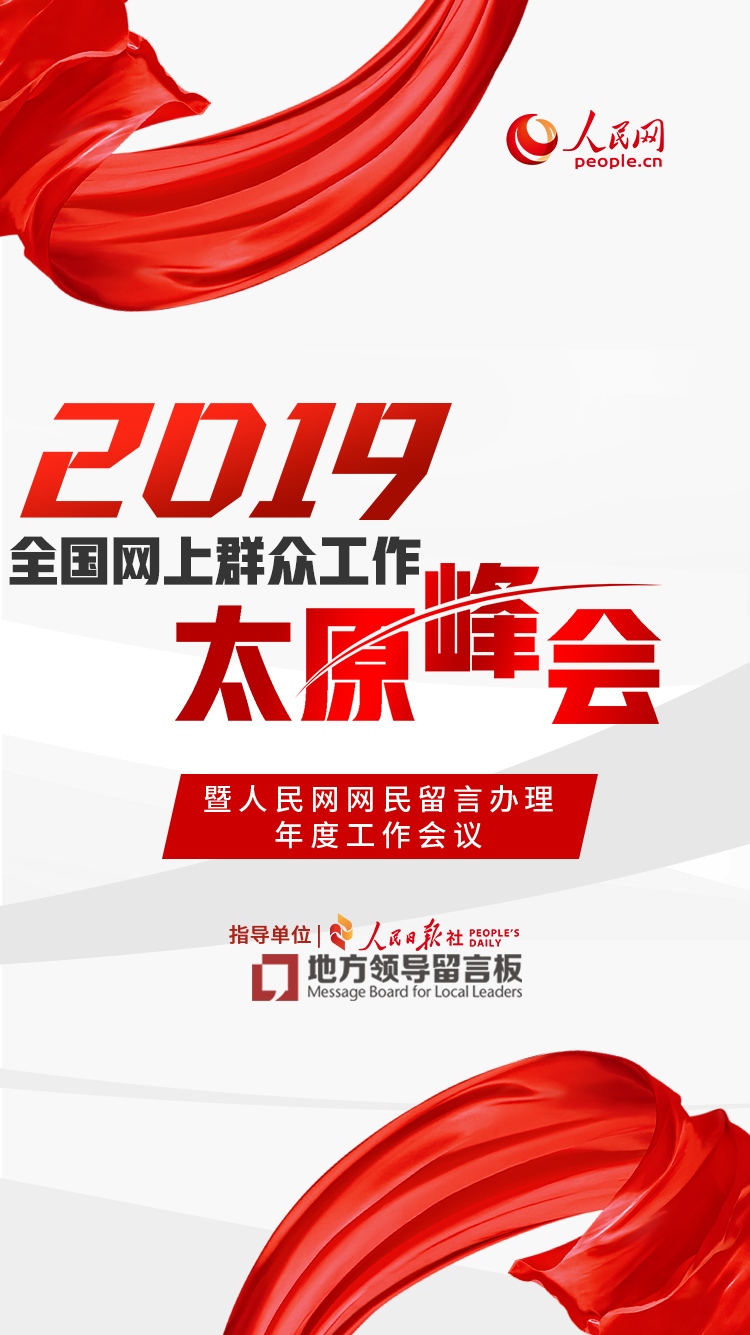
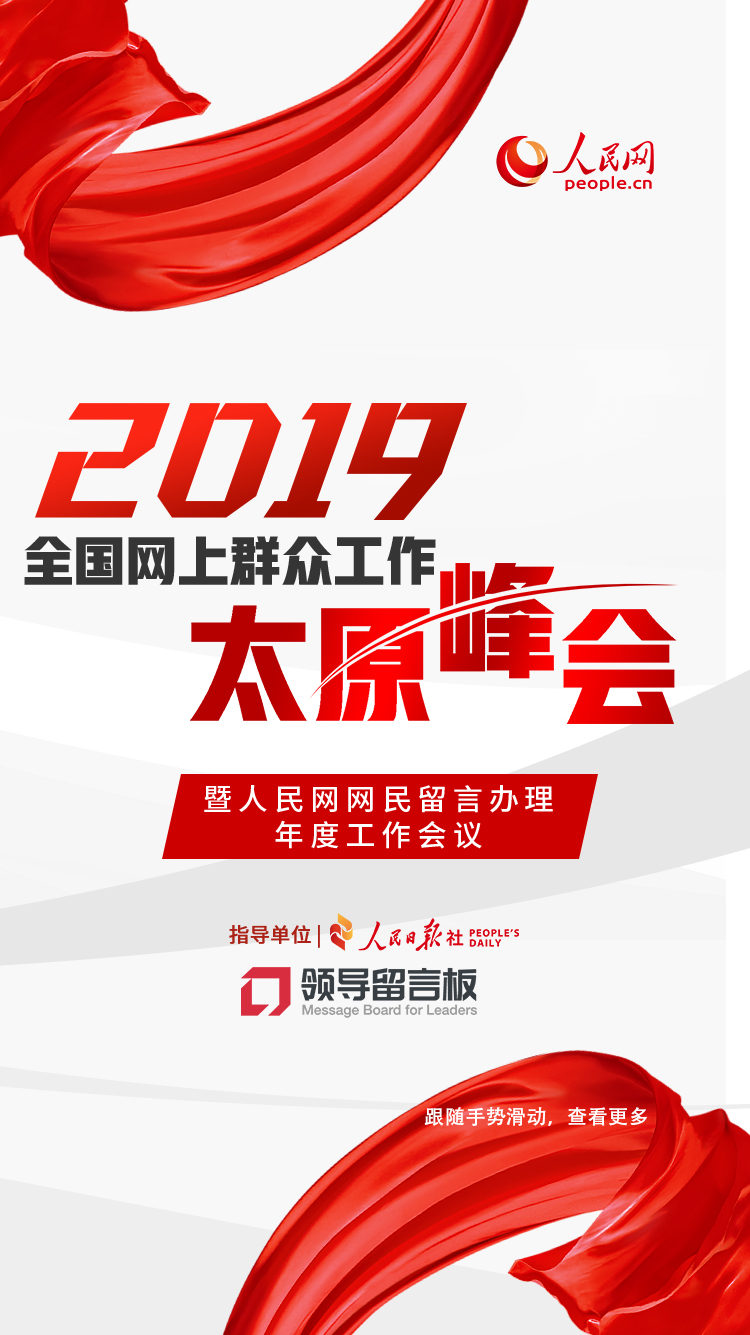
save

diff --git a/index.html b/index.html
@@ -17,13 +17,24 @@
 </head>
 <body>
 	<div class="swiper-wrapper page-box">
+		<!-- 手机页导航 -->
+		<div class="min-top-bar">
+			<div class="min-top-bar-item">首页</div>
+			<div class="min-top-bar-item">要闻</div>
+			<div class="min-top-bar-item">重点推荐</div>
+			<div class="min-top-bar-item">会议日程</div>
+			<div class="min-top-bar-item">会议现场</div>
+			<div class="min-top-bar-item">高峰智库<br>主题演讲</div>
+			<div class="min-top-bar-item">圆桌会议</div>
+			<div class="min-top-bar-item">往届回顾</div>
+			<div class="min-top-bar-item">鸣谢单位</div>
+		</div>
 		<!-- 第一页 -->
 		<div class="one page swiper-slide">
 			<!--header-->
 			<div class="header clearfix">
 				<div class="w980"><span><a href="http://www.people.cn" target="_blank"><img src="http://www.people.com.cn/img/MAIN/2014/06/114539/images/nav/logo_rmw.png" alt="人民网首页" title="人民网首页" /></a></span><em><a href="b" target="_blank">频道</a>|<a href="b" target="_blank">专题</a></em></div>
 			</div>
-			<div class="info-text">跟随手势滑动，查看更多</div>
 			<img class="hand" src="http://www.people.com.cn/img/MAIN/2019/02/119071/images/1-hand.png"/>
 		</div>
 
@@ -46,6 +57,7 @@
 				</div>
 			</div>
 			<div class="transform-box">
+				<a name="a01"></a>
 				<!--newsCon-->
 				<div class="w980 newsCon clearfix">
 					<h1 class="red">2018人民网留言办理工作会议在南京召开</h1>
@@ -94,6 +106,7 @@
 
 		<!-- 第四页 -->
 		<div class="four page swiper-slide">
+			<a name="a02"></a>
 			<!--p2Con-->
 			<div class="p2Con clearfix">
 				<ul class="tit1 clearfix">
@@ -367,7 +380,7 @@
 				<div class="clearfix w980">
 						<div class="fl left">
 							<h2><img src="images/tit7.png" alt="" /></h2>
-							<p><a href="http://leaders.people.com.cn/n1/2016/1230/c202264-28989829.html"target="_blank">关于地方领导留言板</a>&nbsp;&nbsp;|&nbsp;&nbsp;<a href="http://www.people.com.cn/"target="_blank">人民网</a>&nbsp;&nbsp;|&nbsp;&nbsp;<a href="http://leaders.people.com.cn/GB/178291/218130/414212/index.html"target="_blank">客户端下载&nbsp;&nbsp;</a>|&nbsp;&nbsp;<a href="http://kf.people.com.cn/GB/193845/index.html"target="_blank">关于删帖</a><br />
+							<p><a href="http://leaders.people.com.cn/n1/2016/1230/c202264-28989829.html"target="_blank">领导留言板</a>&nbsp;&nbsp;|&nbsp;&nbsp;<a href="http://www.people.com.cn/"target="_blank">人民网</a>&nbsp;&nbsp;|&nbsp;&nbsp;<a href="http://leaders.people.com.cn/GB/178291/218130/414212/index.html"target="_blank">客户端下载&nbsp;&nbsp;</a>|&nbsp;&nbsp;<a href="http://kf.people.com.cn/GB/193845/index.html"target="_blank">关于删帖</a><br />
 								热线：4008-100-300（不受理投诉、留言）<br />
 								邮箱：leader@people.cn</p>
 						</div>
@@ -399,6 +412,8 @@
 	<div class="nav_r white">
 		<ul>
 			<li id="active"><i></i><span><a title="返回顶部" class="go_top" href="#">回到顶部</a></span></li>
+			<li><i></i><span><a href="#a01">要闻</a></span></li>
+			<li><i></i><span><a href="#a02">重点推荐</a></span></li>
 			<li><i></i><span><a href="#a1">会议议程</a></span></li>
 			<li><i></i><span><a href="#a2">会议现场</a></span></li>
 			<li class="two"><i></i><span><a href="#a3">高峰智库<br />主题演讲</a></span></li>

diff --git a/page.css b/page.css
@@ -472,12 +472,6 @@ em{font-style:normal;}
 	width: 100%;
 }
 
-.min .info-text {
-	position: absolute;
-	bottom: 13%;
-	right: 3%;
-	color: white;
-}
 
 .min .one .hand {
 	position: absolute;
@@ -497,4 +491,14 @@ em{font-style:normal;}
 	100% {
 		right: 18%;
 	}
+}
+
+.min-top-bar {
+	background-color: #c21f0d;
+	color: white;
+	display: flex;
+}
+
+.min-top-bar-item {
+	
 }
